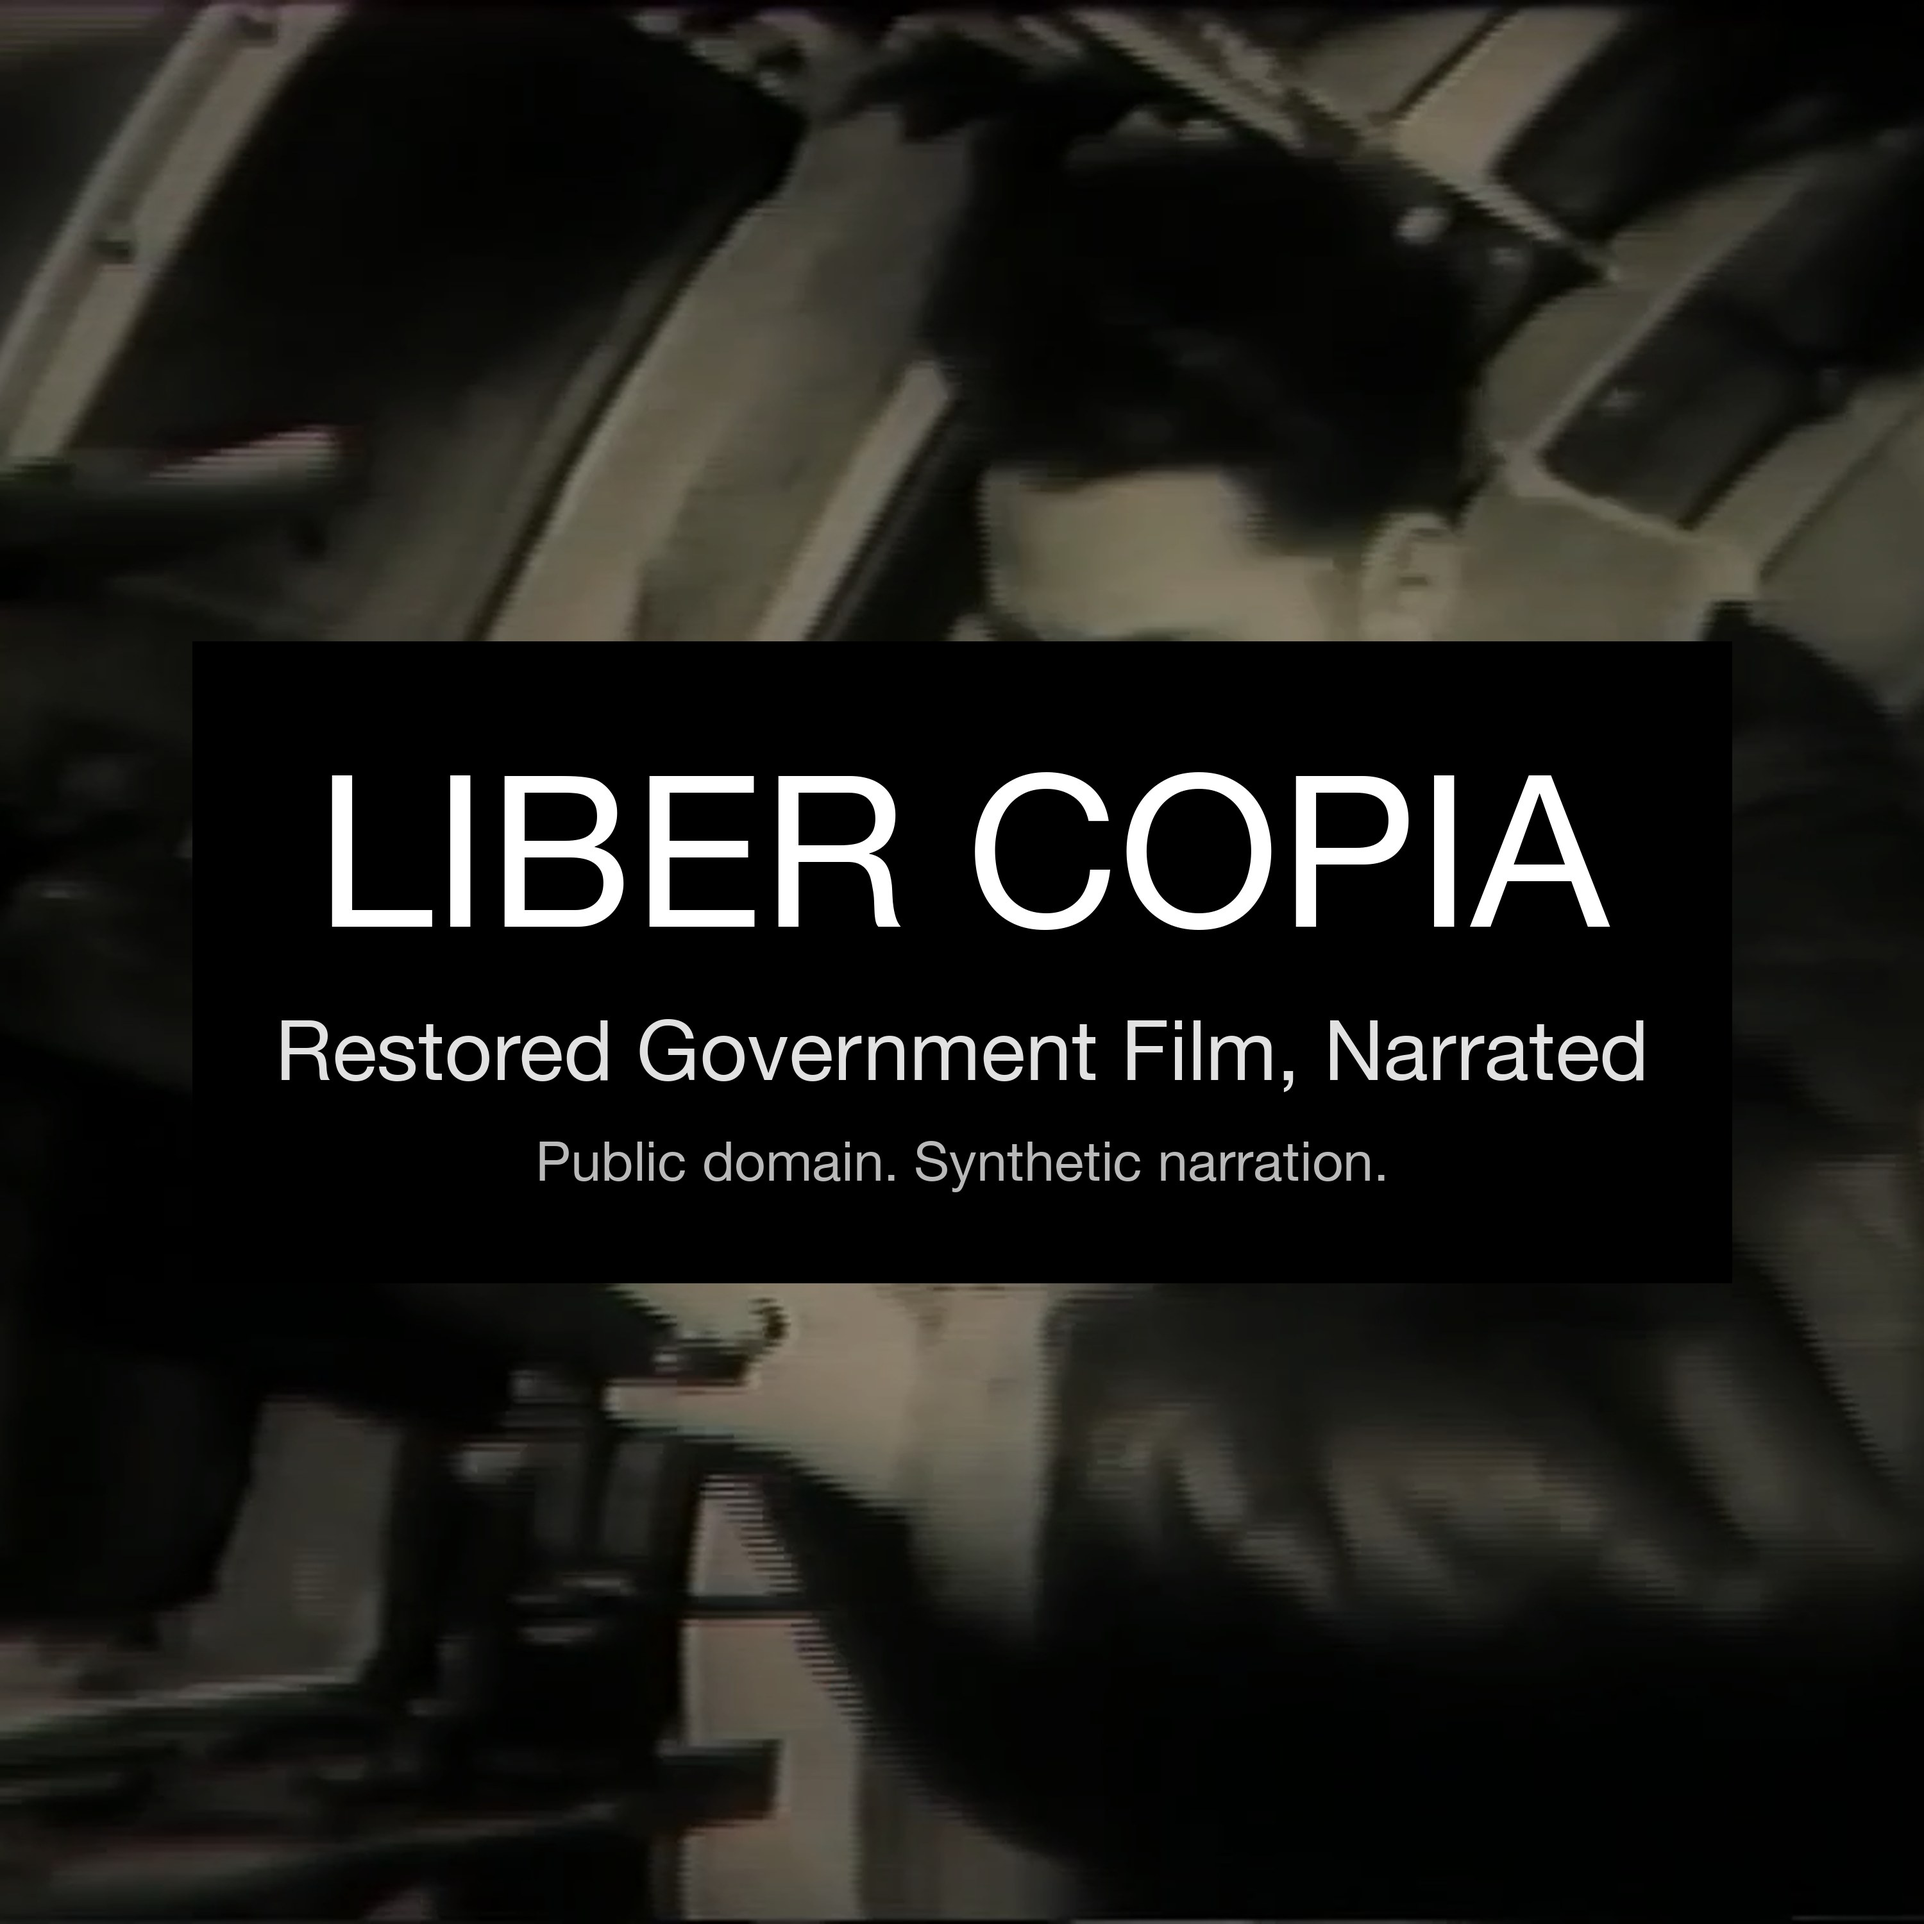
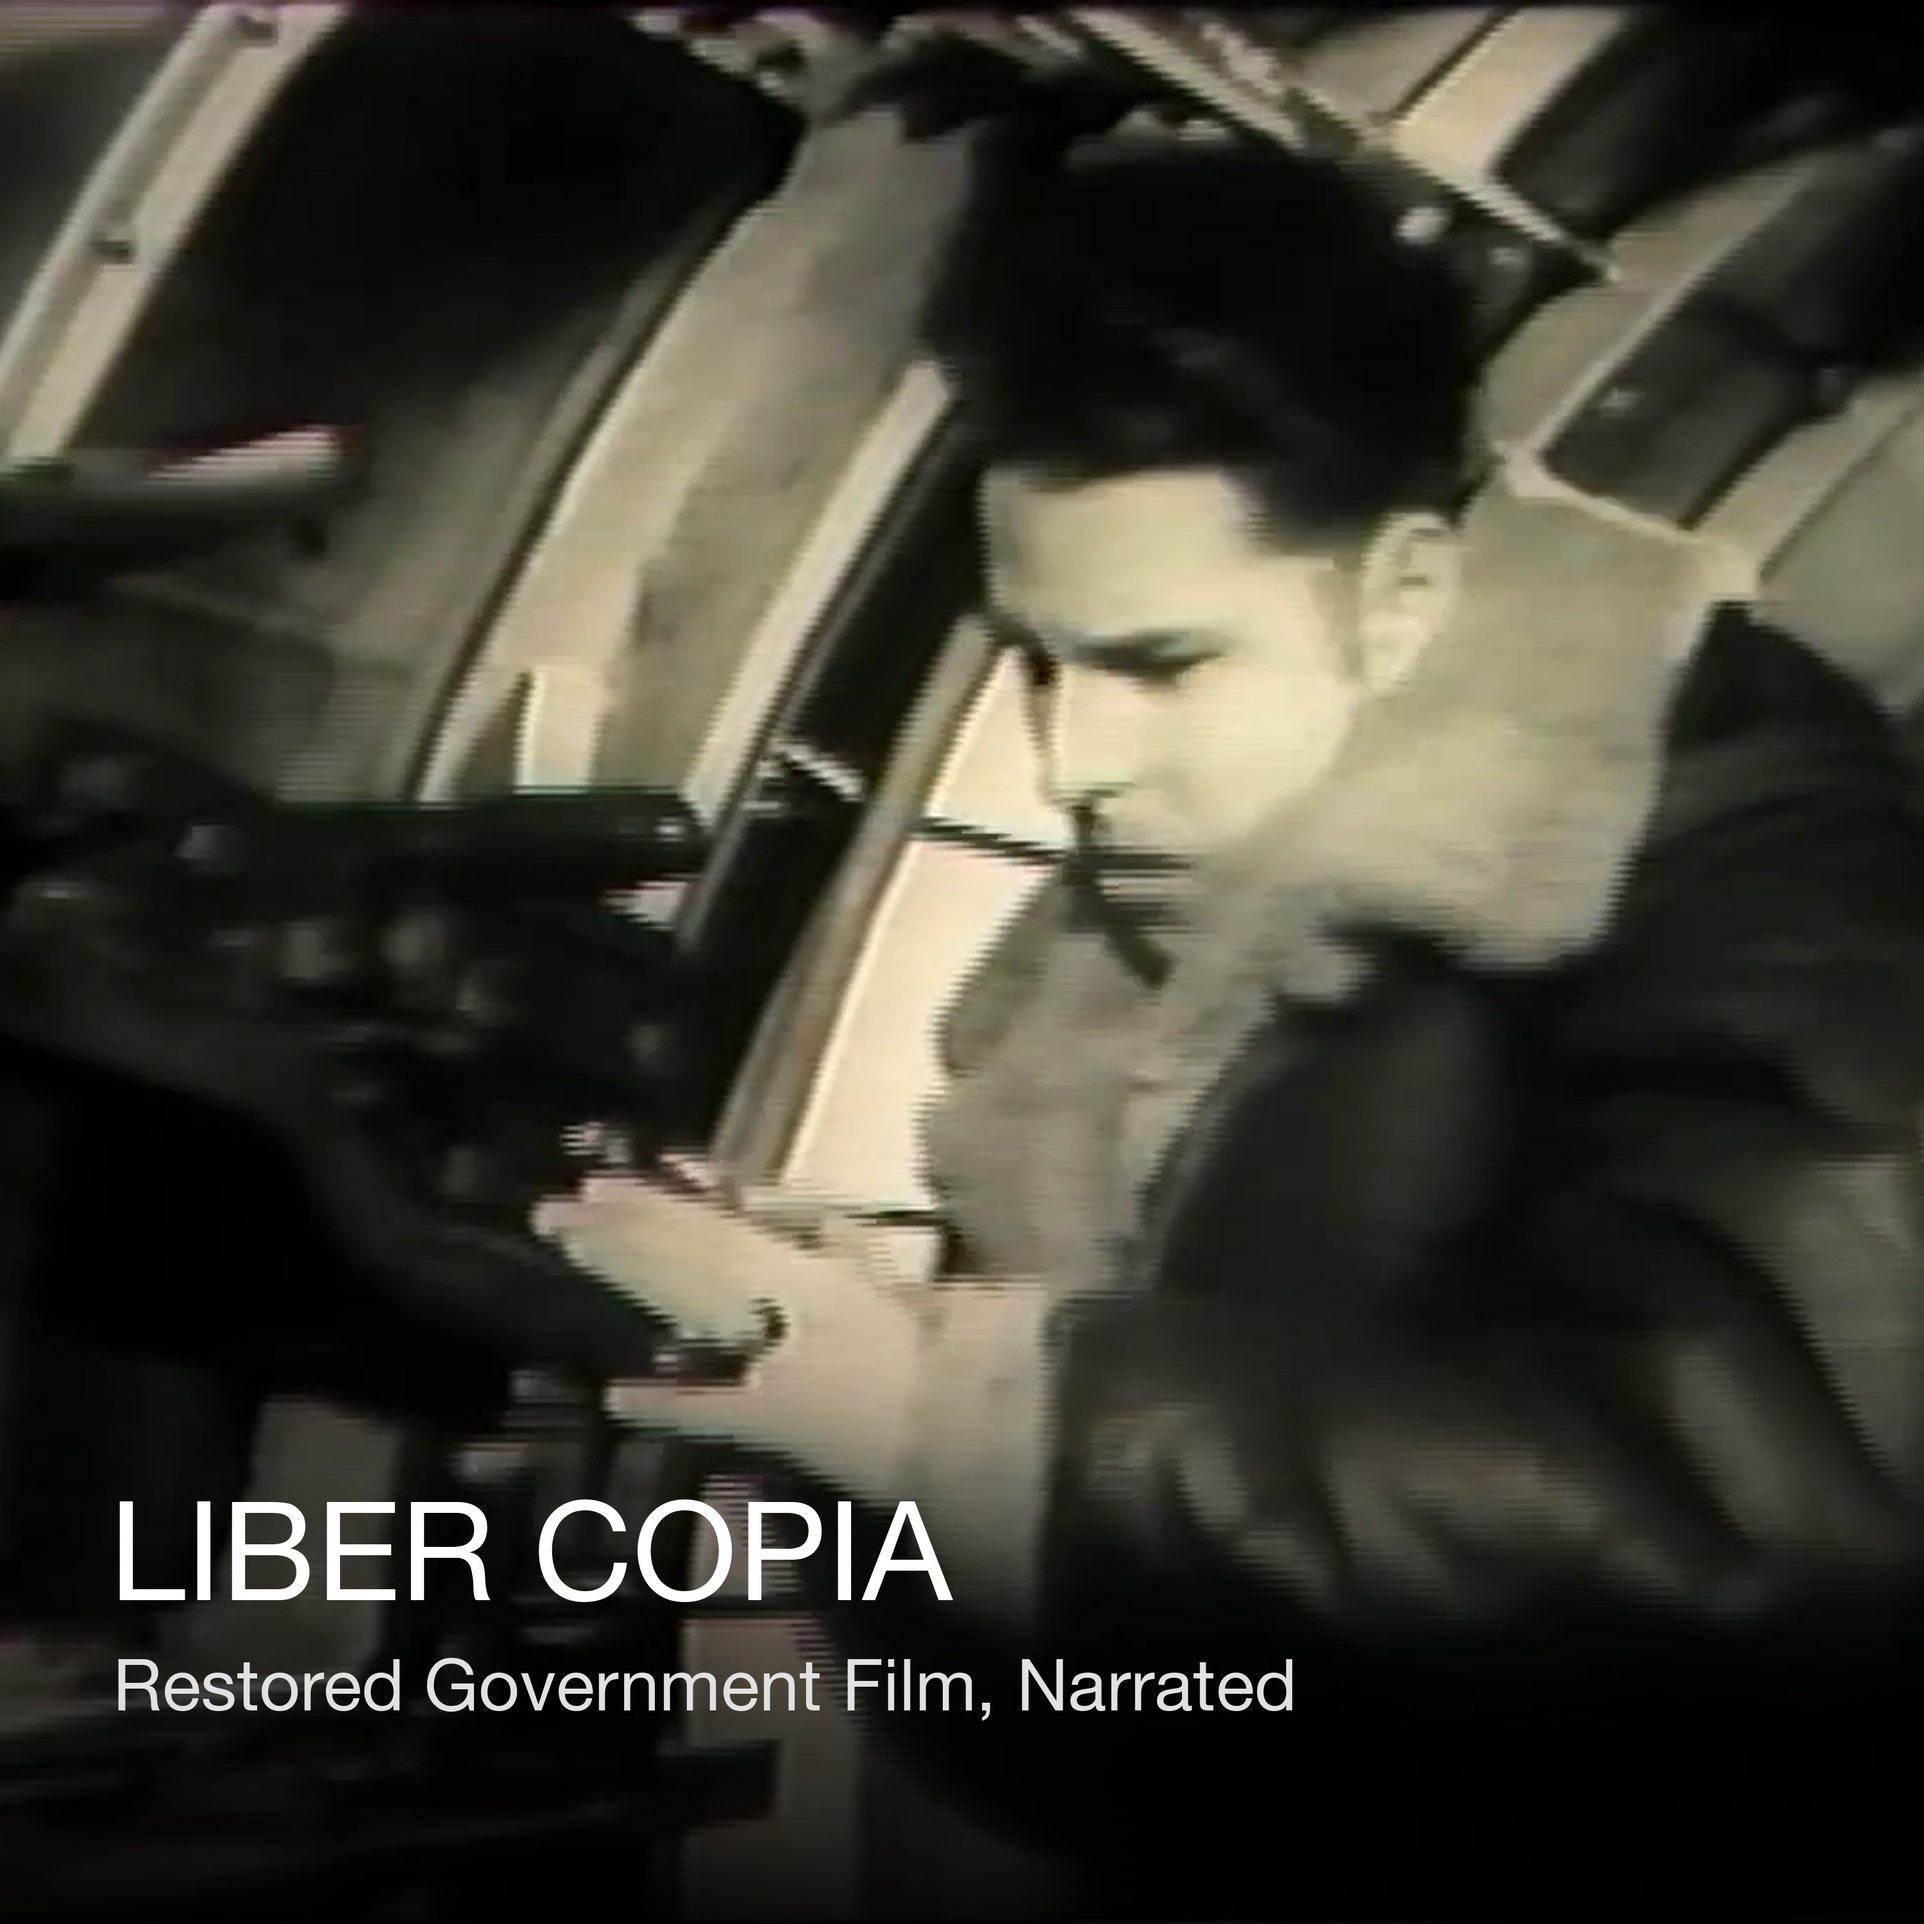
rebuild feed

diff --git a/index.html b/index.html
@@ -1,1 +1,1 @@
-<!doctype html><meta charset=utf-8><title>Liber Copia: Restored Government Film, Narrated</title><h1>Liber Copia: Restored Government Film, Narrated</h1><p>Narrated audio from restored U.S. government archival film: training films, wartime reports and official histories, read against the film's own words. Public-domain sources. The narration voice is synthetic.</p><p><a href=feed.xml>RSS feed</a></p>
+<!doctype html><meta charset=utf-8><title>Podcast feeds</title><h1>Podcast feeds</h1><ul><li><a href=feed.xml>Liber Copia: Restored Government Film, Narrated</a></li><li><a href=feed-cinema.xml>The Darker Reel: Cinema of the Underground</a></li><li><a href=feed-behind-the-battle.xml>Behind the Battle: Intelligence, Deception &amp; SOF</a></li></ul>
